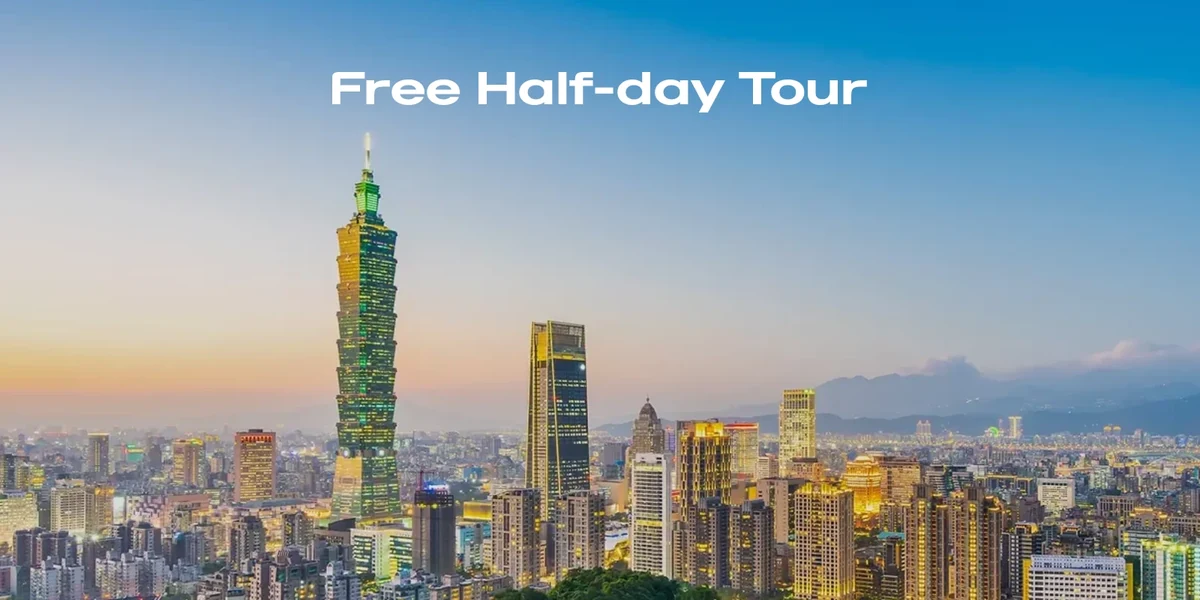
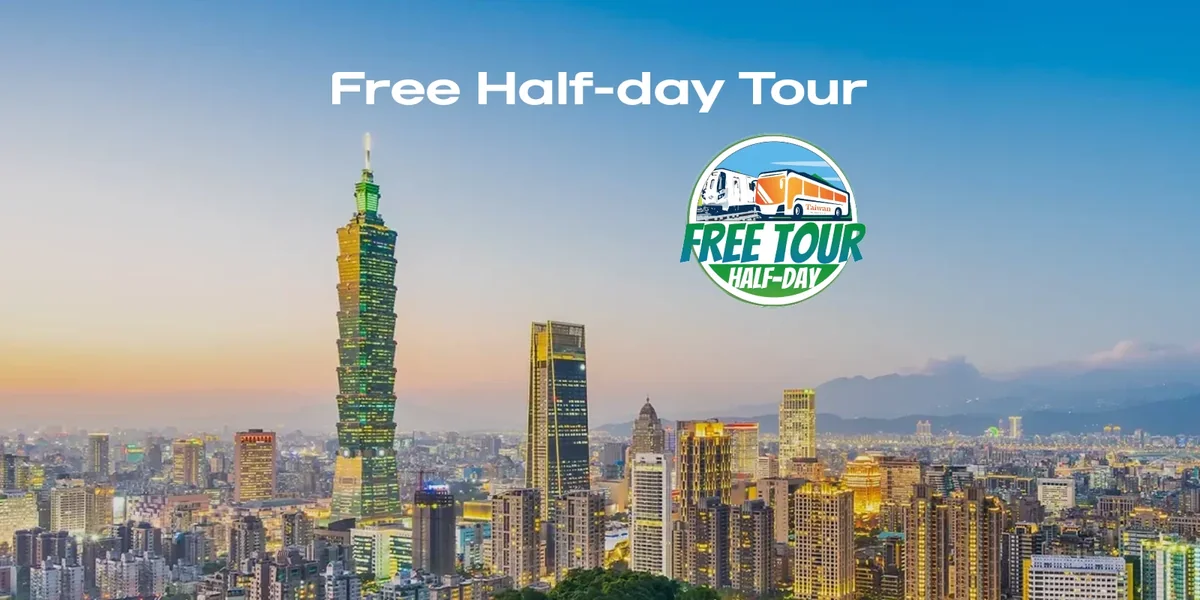
Add files via upload

Changed region(s): [[0.555, 0.21, 0.74, 0.51]]

diff --git a/index.html b/index.html
@@ -570,7 +570,7 @@ body{background:var(--paper);color:var(--body);font-family:var(--font);
 <!-- Bump ?v= whenever you edit content.js, or browsers keep serving the
      old copy and your change appears to do nothing. A hard refresh
      (Cmd+Shift+R) also works. -->
-<script src="content.js?v=63"></script>
+<script src="content.js?v=64"></script>
 <script>
 const board=document.getElementById('board'),layer=document.getElementById('layer'),
       rowsEl=null;
